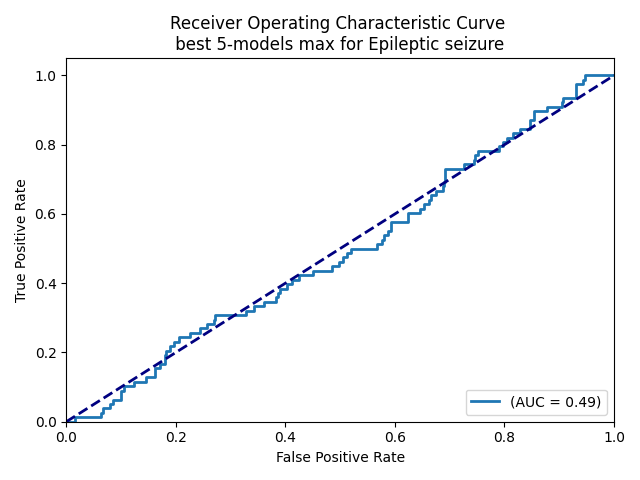
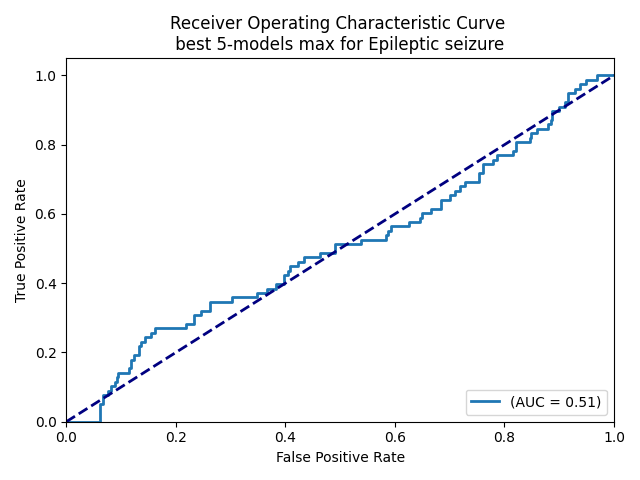
added metrics

diff --git a/predict.py b/predict.py
@@ -16,6 +16,8 @@ from model import get_model, Classifier, Classifier_Many_Layers
 
 if __name__ == "__main__":
     outputs = ['Epileptic seizure', 'VasoespasmA', 'Exitus', 'ANY Vasoespasm ', 'Infarction', 'Rebleeding', 'Hydrocephalus']
+    metrics_mean = pd.DataFrame(columns=["accuracy", "recall", "f1_score"])
+    metrics_max = pd.DataFrame(columns=["accuracy", "recall", "f1_score"])
     for configs.target_output in outputs :
         print(configs.target_output)
 
@@ -72,6 +74,17 @@ if __name__ == "__main__":
         plt.close()
         print(f"AUC ROC (5-model ensemble average) for {configs.target_output} = {auc_roc:.4f}")
 
+        # Accuracy, recall
+        predicted_labels = (mean_predictions > 0.3).float()
+        accuracy = accuracy_score(labels_ref, mean_predictions)
+        recall = recall_score(labels_ref, mean_predictions)
+        f1score = f1_score(labels_ref, mean_predictions)
+
+        metrics_mean[configs.target_output] = [accuracy, recall, f1score]
+
+        print(f"Accuracy : {accuracy}, Recall : {recall}, F1-score : {f1score}")
+        print(metrics_mean)
+
         # Take the max of predictions ------------------------------------------------------------
         max_predictions = np.max(np.stack(all_predictions), axis=0)
 
@@ -93,8 +106,14 @@ if __name__ == "__main__":
         print(f"AUC ROC (5-model ensemble average) for {configs.target_output} = {auc_roc:.4f}")
 
         # Accuracy, recall
+        predicted_labels = (max_predictions > 0.3).float()
         accuracy = accuracy_score(labels_ref, mean_predictions)
         recall = recall_score(labels_ref, mean_predictions)
         f1score = f1_score(labels_ref, mean_predictions)
 
+        metrics_max[configs.target_output] = [accuracy, recall, f1score]
+
         print(f"Accuracy : {accuracy}, Recall : {recall}, F1-score : {f1score}")
+        print(metrics_max)
+
+        
